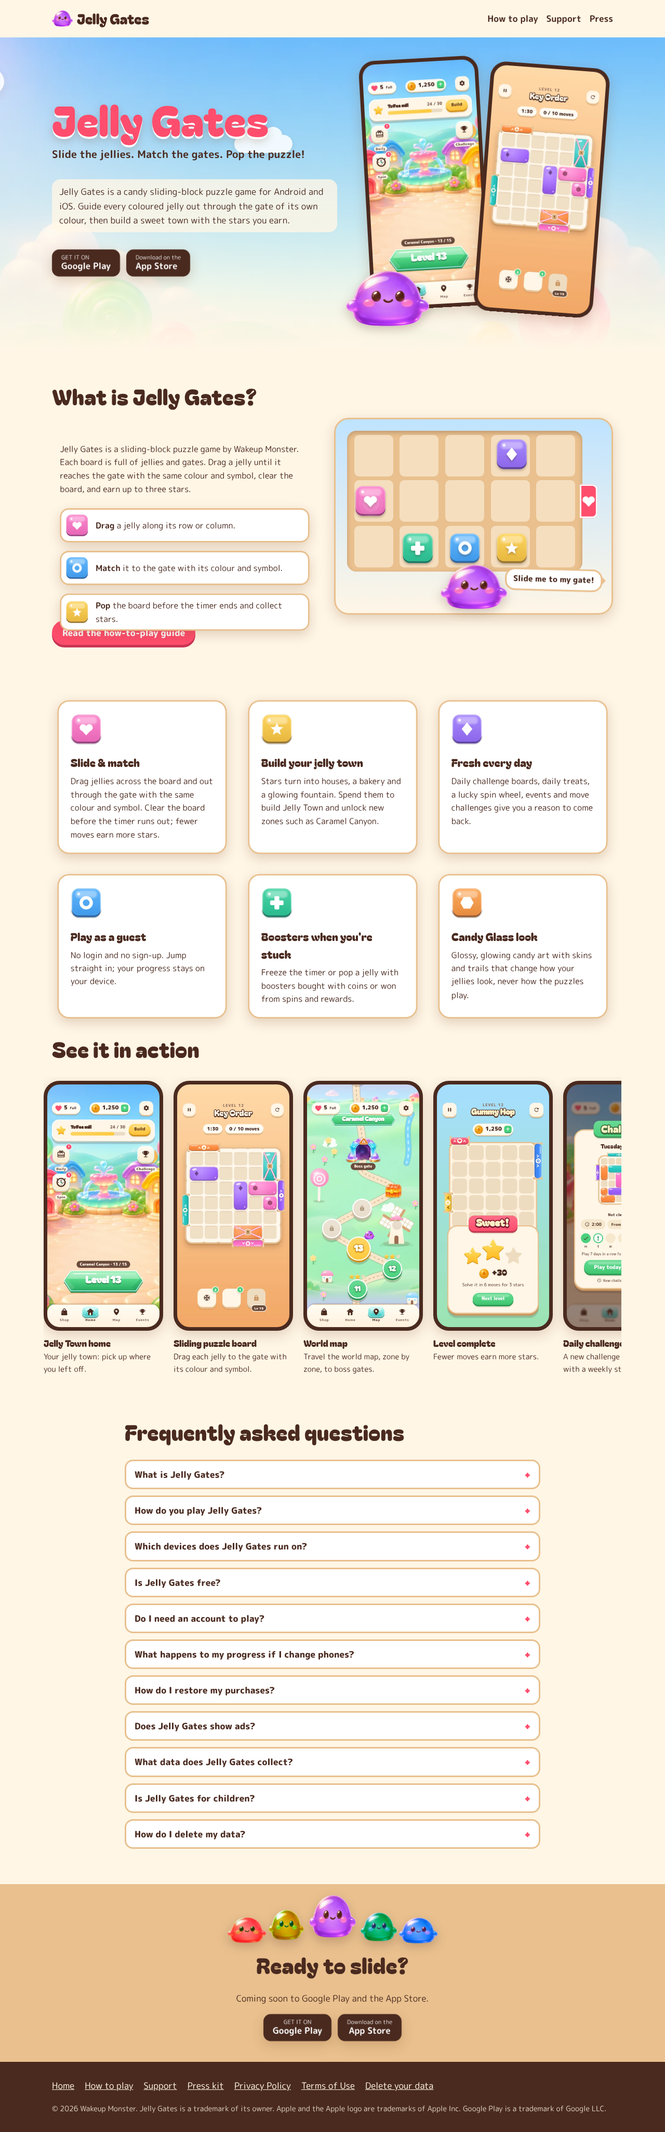
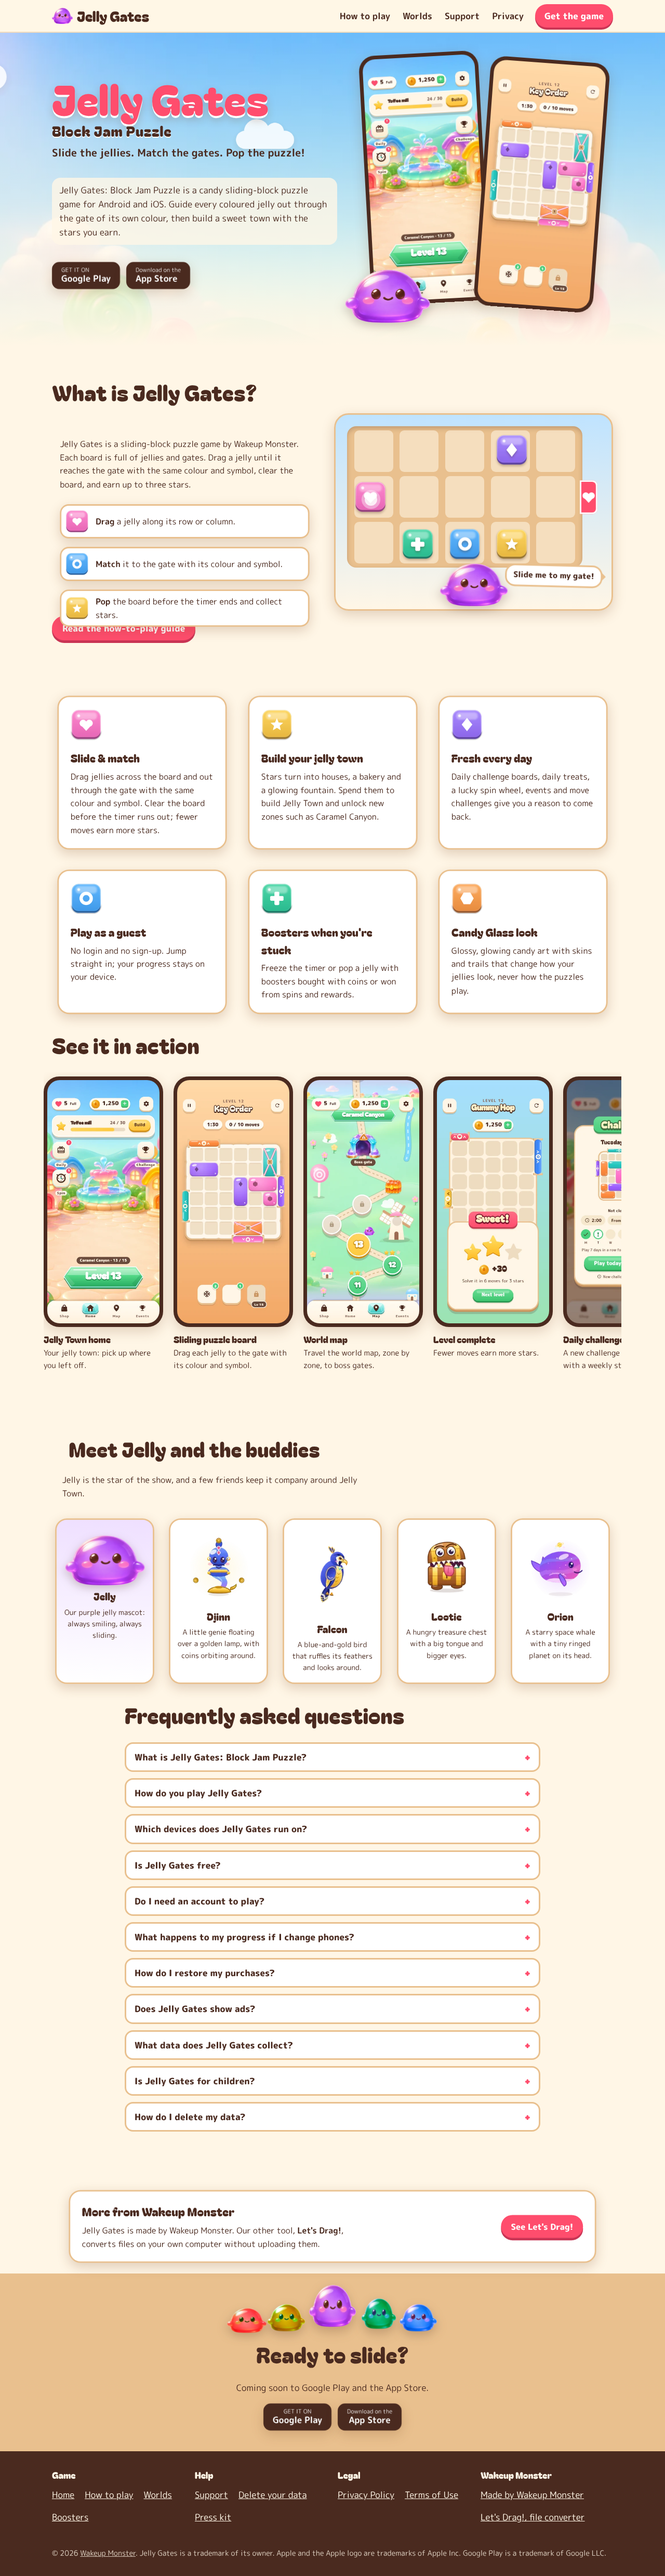
Add sticky header, buddies, worlds and boosters pages, llms-full, website privacy, Let's Drag link
Claude-Session: https://claude.ai/code/session_01EV6BAb5FUZiPhLiUpAzwuP

diff --git a/app/globals.css b/app/globals.css
@@ -182,3 +182,52 @@ summary::-webkit-details-marker{display:none}
 *{transition:none!important}}
 .family{max-width:100%;padding:0 8px}
 .family .mascot{max-width:calc((100% - 24px) / 5);min-width:0}
+
+/* ===== sticky header + menu ===== */
+.site-bar{position:sticky;top:0;z-index:30;background:rgba(255,246,230,.92);backdrop-filter:blur(8px);border-bottom:2px solid rgba(233,192,142,.5)}
+.bar{display:flex;align-items:center;justify-content:space-between;gap:12px;padding:8px 0;position:relative}
+.menu-toggle{position:absolute;opacity:0;pointer-events:none}
+.menu-btn{display:none;width:44px;height:44px;border-radius:14px;background:#fff;border:3px solid var(--caramel);cursor:pointer;flex-direction:column;justify-content:center;gap:4px;align-items:center;transition:transform .3s var(--spring)}
+.menu-btn span{display:block;width:20px;height:3px;border-radius:3px;background:var(--cocoa);transition:transform .3s var(--spring),opacity .2s}
+.menu-btn:active{transform:scale(.9)}
+.menu-toggle:focus-visible+.menu-btn{outline:3px solid var(--blueberry);outline-offset:2px}
+.menu-toggle:checked+.menu-btn span:nth-child(1){transform:translateY(7px) rotate(45deg)}
+.menu-toggle:checked+.menu-btn span:nth-child(2){opacity:0}
+.menu-toggle:checked+.menu-btn span:nth-child(3){transform:translateY(-7px) rotate(-45deg)}
+nav.top{display:flex;align-items:center;gap:4px}
+nav.top a{margin-left:0;padding:8px 10px}
+nav.top a.nav-cta{background:var(--cherry);color:#fff;border-radius:99px;padding:9px 18px;margin-left:8px;box-shadow:0 4px 0 #c93555;font-weight:800}
+nav.top a.nav-cta:hover{transform:translateY(-3px) scale(1.07) rotate(-2deg)}
+nav.top a.nav-cta:active{transform:translateY(3px) scale(.95);box-shadow:0 1px 0 #c93555}
+@media(max-width:760px){
+.menu-btn{display:flex}
+nav.top{display:none;position:absolute;left:0;right:0;top:100%;flex-direction:column;align-items:stretch;background:var(--cream);border:3px solid var(--caramel);border-radius:20px;padding:10px;box-shadow:var(--shadow);margin-top:6px}
+nav.top a{text-align:center;padding:12px}
+nav.top a.nav-cta{margin:6px 0 0;text-align:center}
+.menu-toggle:checked~nav.top{display:flex;animation:pop .35s var(--spring)}
+}
+#download,#main{scroll-margin-top:72px}
+/* buddies */
+.buddies{display:grid;grid-template-columns:repeat(2,1fr);gap:16px}
+.buddy{background:#fff;border:3px solid var(--caramel);border-radius:24px;padding:18px 14px;text-align:center;box-shadow:var(--shadow);transition:transform .4s var(--spring)}
+.buddy:hover{transform:translateY(-8px) rotate(-1deg)}
+.buddy img{width:min(150px,100%);height:auto;margin:0 auto}
+.buddy h3{font-size:1.3rem;margin:6px 0 4px}
+.buddy p{margin:0;font-size:.92rem}
+.buddy-main{grid-column:1/-1;background:linear-gradient(#efe0ff,#fff)}
+.buddy-main .mascot{display:block;margin:0 auto}
+/* sister + boosters + footer */
+.sister{display:flex;flex-wrap:wrap;align-items:center;justify-content:space-between;gap:16px;background:#fff;border:3px solid var(--caramel);border-radius:24px;padding:22px 24px;box-shadow:var(--shadow)}
+.sister h2{font-size:1.5rem;margin:0 0 6px}.sister p{margin:0;max-width:52ch}
+.boost-list{display:grid;gap:16px;margin:20px 0}
+.boost-list .card{display:flex;gap:18px;align-items:center}
+.boost-list .card h2{margin:0 0 4px;font-size:1.5rem}
+.boost-list .card p{margin:0 0 4px}
+.boost-list img{flex:none;width:96px;height:96px}
+.foot-cols{display:grid;grid-template-columns:repeat(2,1fr);gap:20px;margin-bottom:20px}
+.foot-cols b{font-family:var(--font-title);font-weight:400;font-size:1.1rem;display:block;margin-bottom:6px}
+.foot-cols ul{display:block;margin:0}.foot-cols li{margin:4px 0}
+@media(min-width:800px){.buddies{grid-template-columns:repeat(5,1fr)}.buddy-main{grid-column:auto}.foot-cols{grid-template-columns:repeat(4,1fr)}}
+@media(prefers-reduced-motion:reduce){.menu-toggle:checked~nav.top{animation:none}}
+.facts dd{overflow-wrap:anywhere}
+@media(max-width:560px){.facts{grid-template-columns:1fr}.facts dd{margin-bottom:8px}}

diff --git a/app/privacy/page.tsx b/app/privacy/page.tsx
@@ -36,15 +36,17 @@ export default function Page() {
 <p>To confirm that a purchase is genuine and to deliver it, the Game sends the store purchase token and product id to our backend running on Google Firebase Cloud Functions. This request contains no name, email or other personal details. We keep these verification records for as long as needed to prevent fraud, handle refunds and meet legal obligations. Firebase, as our infrastructure provider, may process technical data such as IP address in server logs.</p>
 <h2>6. Analytics</h2>
 <p>We do not include a separate analytics SDK. Only the data collected by AdMob and Firebase as described above is processed.</p>
-<h2>7. Children</h2>
+<h2>7. This website</h2>
+<p>This website does not use cookies, advertising trackers or analytics at present. {/* STATIC: if website analytics are added later, describe them here (cookieless, respecting Do Not Track) */}Our hosting provider may keep standard server logs (IP address, browser, pages requested) for security and operation. If you email us, we use your message only to reply.</p>
+<h2>8. Children</h2>
 <p>The Game is not directed at children under 13, and we do not knowingly collect personal information from them. If you believe a child has provided data, contact us and we will help. {/* STATIC: OWNER DECISION TO CONFIRM — age policy (under 13 / designed-for-families) must match the Play Console and App Store age ratings and AdMob child-directed settings */} <strong>[Owner decision to confirm: age statement.]</strong></p>
-<h2>8. Your rights (GDPR / UK GDPR / CCPA)</h2>
+<h2>9. Your rights (GDPR / UK GDPR / CCPA)</h2>
 <p>Depending on where you live you may have the right to access, correct, delete or port your data, to object to or restrict processing, to withdraw consent, and to lodge a complaint with your supervisory authority. California residents may also request to know, delete, and opt out of the "sale" or "sharing" of personal information; we do not sell personal information for money, and ad personalisation is controlled by the consent and device settings above. Because we hold almost no data about you, most requests are answered by explaining that data is on your device. To exercise rights, e-mail <ContactEmail />.{/* STATIC: placeholder contact email; owner must provide the real address */} We will respond within the period required by law (generally 30 days).</p>
-<h2>9. International transfers and security</h2>
+<h2>10. International transfers and security</h2>
 <p>Google and Apple may process data in countries outside your own under their own safeguards. We use reasonable measures to protect our backend, but no system is perfectly secure.</p>
-<h2>10. Changes</h2>
+<h2>11. Changes</h2>
 <p>We may update this policy; the effective date above will change and, for material changes, we will notify you in the Game or on this page.</p>
-<h2>11. Contact</h2>
+<h2>12. Contact</h2>
 <p><ContactEmail />{/* STATIC: placeholder contact email; owner must provide the real address */}</p>
 
     </LegalPage>

diff --git a/lib/game.ts b/lib/game.ts
@@ -1,0 +1,24 @@
+// Facts below come from the game repo (branch feature/shop-events-redesign): Progression.zoneNames,
+// assets/levels/levels.json + bosses.json, and the Booster enum. Re-check before launch (STATIC-NOTES.md).
+export const ZONES = [
+  { name: "Gummy Meadows", tagline: "Soft hills where every jelly learns to slide", tier: "Easy", boss: "Gummy Guardian", levels: ["First Slide", "Corner Shop", "Side Step", "Make Room", "Crossroads"] },
+  { name: "Frostjelly Falls", tagline: "Slippery ice jelly and frozen cascades", tier: "Easy–Medium", boss: "Frostjaw", levels: ["Slippery", "The Pillars", "Rush Hour", "Ice Rink", "Glide Path"] },
+  { name: "Caramel Canyon", tagline: "Chained jelly on sticky caramel bridges", tier: "Medium", boss: "Caramel Warden", levels: ["Chained Up", "Key Order", "Tangle", "Frozen Chain", "Chain Reaction"] },
+  { name: "Twin-Core Lagoon", tagline: "Double jelly floating in a bubbly lagoon", tier: "Medium–Hard", boss: "Twin-Core Colossus", levels: ["Jelly Core", "Two Coats", "Russian Doll", "Cold Core", "Thaw"] },
+  { name: "Prism Peaks", tagline: "Shifting gates among rainbow crystals", tier: "Hard", boss: "Prism Sentinel", levels: ["Traffic Lights", "Rotating Door", "Lock Step", "Black Ice", "Kaleidoscope"] },
+  { name: "Royal Jelly Citadel", tagline: "Every trick at once in the jelly castle", tier: "Advanced", boss: "Royal Jelly Keeper", levels: ["Clockwork", "Deep Freeze", "Labyrinth", "Avalanche", "Jelly Master"] },
+] as const;
+
+export const BOOSTERS = [
+  { name: "Freeze", unlock: 5, text: "Stops the timer for 10 seconds. Tap it whenever the clock gets scary.", img: "freeze" },
+  { name: "Pop", unlock: 10, text: "Pops one jelly off the board. Tap Pop, then tap any jelly.", img: "pop" },
+  { name: "Key", unlock: 15, text: "Opens any gate for one jelly, whatever its colour.", img: null },
+] as const;
+
+export const BUDDIES = [
+  // STATIC: buddy names are the art folder names in the game repo; confirm final names
+  { file: "djinn", name: "Djinn", desc: "A little genie floating over a golden lamp, with coins orbiting around." },
+  { file: "falcon", name: "Falcon", desc: "A blue-and-gold bird that ruffles its feathers and looks around." },
+  { file: "lootie", name: "Lootie", desc: "A hungry treasure chest with a big tongue and bigger eyes." },
+  { file: "orion", name: "Orion", desc: "A starry space whale with a tiny ringed planet on its head." },
+] as const;

diff --git a/app/boosters/page.tsx b/app/boosters/page.tsx
@@ -1,0 +1,37 @@
+import type { Metadata } from "next";
+import Image from "next/image";
+import Link from "next/link";
+import { JsonLd } from "@/components/JsonLd";
+import { TileIcon } from "@/components/TileIcon";
+import { abs, breadcrumbLd, pageMetadata } from "@/lib/seo";
+import { BOOSTERS } from "@/lib/game";
+import { BASE_PATH } from "@/lib/site";
+
+export const metadata: Metadata = pageMetadata({
+  title: "Boosters: Freeze, Pop and Key",
+  description: "What the Freeze, Pop and Key boosters do in Jelly Gates: Block Jam Puzzle, and the level where each one unlocks.",
+  path: "/boosters/",
+});
+
+export default function Boosters() {
+  return (
+    <main className="page" id="main"><div className="wrap">
+      <h1>Boosters</h1>
+      <p><strong>In short:</strong> Jelly Gates has three boosters: Freeze stops the timer, Pop removes a jelly and Key opens any gate. They unlock as you play, from level 5.</p>
+      <div className="boost-list">
+        {BOOSTERS.map((b) => (
+          <div className="card" key={b.name}>
+            {b.img ? <Image src={`${BASE_PATH}/img/boosters/${b.img}.webp`} alt="" width={96} height={96} /> : <TileIcon tile="orange" symbol="hexagon" size={96} />}
+            <div><h2>{b.name}</h2><p>{b.text}</p><p><small>Unlocks at level {b.unlock}.</small></p></div>
+          </div>
+        ))}
+      </div>
+      <p>Coins buy boosters and refills, and you can win more from the daily treats and the lucky spin. See <Link href="/how-to-play/">how to play</Link> and the <Link href="/worlds/">worlds</Link>.</p>
+      <JsonLd data={breadcrumbLd([{ name: "Home", path: "/" }, { name: "Boosters", path: "/boosters/" }])} />
+      <JsonLd data={{
+        "@context": "https://schema.org", "@type": "ItemList", name: "Jelly Gates boosters", url: abs("/boosters/"),
+        itemListElement: BOOSTERS.map((b, i) => ({ "@type": "ListItem", position: i + 1, name: b.name, description: b.text })),
+      }} />
+    </div></main>
+  );
+}

diff --git a/app/worlds/page.tsx b/app/worlds/page.tsx
@@ -1,0 +1,37 @@
+import type { Metadata } from "next";
+import Link from "next/link";
+import { JsonLd } from "@/components/JsonLd";
+import { Phone } from "@/components/Phone";
+import { abs, breadcrumbLd, pageMetadata } from "@/lib/seo";
+import { ZONES } from "@/lib/game";
+import { SCREENS } from "@/lib/site";
+
+export const metadata: Metadata = pageMetadata({
+  title: "Worlds and levels: 6 zones, 6 boss gates",
+  description: "Explore the six zones of Jelly Gates: Block Jam Puzzle, from Gummy Meadows to the Royal Jelly Citadel, with their levels, difficulty and boss gates.",
+  path: "/worlds/",
+});
+
+export default function Worlds() {
+  return (
+    <main className="page" id="main"><div className="wrap">
+      <h1>Worlds and levels</h1>
+      <p><strong>In short:</strong> Jelly Gates has 6 zones. Each zone has 5 levels and ends with a Boss Gate. Beat the boss to open the next zone, and the puzzles get trickier as you go.</p>
+      <div style={{ margin: "24px 0" }}><Phone file="map" alt={SCREENS[2].alt} /></div>
+      {ZONES.map((z, i) => (
+        <section key={z.name}>
+          <h2>{i + 1}. {z.name}</h2>
+          <p><em>{z.tagline}.</em> Difficulty: {z.tier}.</p>
+          <p><strong>Levels:</strong> {z.levels.join(", ")}.</p>
+          <p><strong>Boss Gate:</strong> {z.boss}.</p>
+        </section>
+      ))}
+      <p>Stuck on a level? Check the <Link href="/boosters/">boosters</Link> or the <Link href="/how-to-play/">how-to-play guide</Link>.</p>
+      <JsonLd data={{
+        "@context": "https://schema.org", "@type": "ItemList", name: "Jelly Gates zones", url: abs("/worlds/"),
+        itemListElement: ZONES.map((z, i) => ({ "@type": "ListItem", position: i + 1, name: z.name, description: z.tagline })),
+      }} />
+      <JsonLd data={breadcrumbLd([{ name: "Home", path: "/" }, { name: "Worlds", path: "/worlds/" }])} />
+    </div></main>
+  );
+}

diff --git a/components/Footer.tsx b/components/Footer.tsx
@@ -3,15 +3,22 @@ import Link from "next/link";
 export function Footer() {
   return (
     <footer className="site"><div className="wrap">
-      <ul>
-        <li><Link href="/">Home</Link></li>
-        <li><Link href="/how-to-play/">How to play</Link></li>
-        <li><Link href="/support/">Support</Link></li>
-        <li><Link href="/press/">Press kit</Link></li>
-        <li><Link href="/privacy/">Privacy Policy</Link></li>
-        <li><Link href="/terms/">Terms of Use</Link></li>
-        <li><Link href="/delete-data/">Delete your data</Link></li>
-      </ul>
+      <div className="foot-cols">
+        <div><b>Game</b><ul>
+          <li><Link href="/">Home</Link></li><li><Link href="/how-to-play/">How to play</Link></li>
+          <li><Link href="/worlds/">Worlds</Link></li><li><Link href="/boosters/">Boosters</Link></li>
+        </ul></div>
+        <div><b>Help</b><ul>
+          <li><Link href="/support/">Support</Link></li><li><Link href="/delete-data/">Delete your data</Link></li><li><Link href="/press/">Press kit</Link></li>
+        </ul></div>
+        <div><b>Legal</b><ul>
+          <li><Link href="/privacy/">Privacy Policy</Link></li><li><Link href="/terms/">Terms of Use</Link></li>
+        </ul></div>
+        <div><b>Wakeup Monster</b><ul>
+          <li><a href="https://wakeupmonster.com/" rel="noopener">Made by Wakeup Monster</a></li>
+          <li><a href="https://letsdrag.wakeupmonster.com/" rel="noopener">Let&apos;s Drag!, file converter</a></li>
+        </ul></div>
+      </div>
       {/* STATIC: legal company name and registered address not known; footer uses "Wakeup Monster" */}
       <small>© 2026 <a href="https://wakeupmonster.com/" rel="noopener">Wakeup Monster</a>. Jelly Gates is a trademark of its owner. Apple and the Apple logo are trademarks of Apple Inc. Google Play is a trademark of Google LLC.</small>
     </div></footer>

diff --git a/components/Header.tsx b/components/Header.tsx
@@ -2,15 +2,22 @@ import Image from "next/image";
 import Link from "next/link";
 import { BASE_PATH } from "@/lib/site";
 
+// Pure CSS menu (checkbox) so it works without JavaScript.
 export function Header() {
   return (
-    <header className="site wrap">
-      <Link className="logo" href="/"><Image src={`${BASE_PATH}/img/mascot/jelly-sm.webp`} alt="" width={96} height={74} className="logo-jelly" />Jelly Gates</Link>
-      <nav className="top" aria-label="Main">
-        <Link href="/how-to-play/">How to play</Link>
-        <Link href="/support/">Support</Link>
-        <Link href="/privacy/">Privacy</Link>
-      </nav>
+    <header className="site-bar">
+      <div className="wrap bar">
+        <Link className="logo" href="/"><Image src={`${BASE_PATH}/img/mascot/jelly-sm.webp`} alt="" width={96} height={74} className="logo-jelly" />Jelly Gates</Link>
+        <input type="checkbox" id="menu-toggle" className="menu-toggle" aria-label="Toggle menu" />
+        <label htmlFor="menu-toggle" className="menu-btn" aria-hidden="true"><span /><span /><span /></label>
+        <nav className="top" aria-label="Main">
+          <Link href="/how-to-play/">How to play</Link>
+          <Link href="/worlds/">Worlds</Link>
+          <Link href="/support/">Support</Link>
+          <Link href="/privacy/">Privacy</Link>
+          <Link className="nav-cta" href="/#download">Get the game</Link>
+        </nav>
+      </div>
     </header>
   );
 }

diff --git a/app/page.tsx b/app/page.tsx
@@ -5,6 +5,8 @@ import { Mascot } from "@/components/Mascot";
 import { TileIcon } from "@/components/TileIcon";
 import { Phone } from "@/components/Phone";
 import { StoreBadges } from "@/components/StoreBadges";
+import { Buddies } from "@/components/Buddies";
+import { SisterApp } from "@/components/SisterApp";
 import { Faq } from "@/components/Faq";
 import { JsonLd } from "@/components/JsonLd";
 import { appId, abs, orgId, organizationLd, pageMetadata } from "@/lib/seo";
@@ -100,12 +102,16 @@ export default function Home() {
         </div>
       </div></section>
 
+      <Buddies />
+
       <section className="block" style={{ paddingTop: 0 }}><div className="wrap" style={{ maxWidth: 800 }}>
         <h2>Frequently asked questions</h2>
         <Faq />
       </div></section>
 
-      <section className="band"><div className="wrap">
+      <SisterApp />
+
+      <section className="band" id="download"><div className="wrap">
         <div className="family" aria-hidden="true">
           <Mascot size={70} tint="cherry" delay={0} /><Mascot size={70} tint="lemon" delay={0.25} /><Mascot size={96} delay={0.5} />
           <Mascot size={70} tint="lime" delay={0.75} /><Mascot size={70} tint="blueberry" delay={1} />

diff --git a/app/llms-full.txt/route.ts b/app/llms-full.txt/route.ts
@@ -1,0 +1,39 @@
+import { abs } from "@/lib/seo";
+import { FAQ, SITE } from "@/lib/site";
+import { BOOSTERS, BUDDIES, ZONES } from "@/lib/game";
+
+export const dynamic = "force-static";
+
+export function GET() {
+  const body = `# ${SITE.fullName}: full reference
+
+${SITE.description}
+
+Developer: ${SITE.developer} (${SITE.companyUrl}). Support: ${SITE.email}. Website: ${abs("/")}
+
+## Frequently asked questions
+${FAQ.map((f) => `### ${f.q}\n${f.a}`).join("\n\n")}
+
+## Worlds
+Jelly Gates has ${ZONES.length} zones of 5 levels, each ending in a Boss Gate.
+${ZONES.map((z, i) => `${i + 1}. ${z.name} (${z.tier}): ${z.tagline}. Levels: ${z.levels.join(", ")}. Boss: ${z.boss}.`).join("\n")}
+
+## Boosters
+${BOOSTERS.map((b) => `- ${b.name} (unlocks at level ${b.unlock}): ${b.text}`).join("\n")}
+
+## Characters
+Jelly is the purple mascot. Buddies: ${BUDDIES.map((b) => b.name).join(", ")}.
+
+## Pages
+- ${abs("/")}
+- ${abs("/how-to-play/")}
+- ${abs("/worlds/")}
+- ${abs("/boosters/")}
+- ${abs("/support/")}
+- ${abs("/press/")}
+- ${abs("/privacy/")}
+- ${abs("/terms/")}
+- ${abs("/delete-data/")}
+`;
+  return new Response(body, { headers: { "Content-Type": "text/plain; charset=utf-8" } });
+}

diff --git a/components/Buddies.tsx b/components/Buddies.tsx
@@ -1,0 +1,22 @@
+import Image from "next/image";
+import { Mascot } from "./Mascot";
+import { BASE_PATH } from "@/lib/site";
+import { BUDDIES } from "@/lib/game";
+
+export function Buddies() {
+  return (
+    <section className="block" style={{ paddingTop: 0 }}><div className="wrap">
+      <h2 className="reveal">Meet Jelly and the buddies</h2>
+      <p className="sub reveal">Jelly is the star of the show, and a few friends keep it company around Jelly Town.</p>
+      <div className="buddies">
+        <div className="buddy buddy-main reveal"><Mascot size={150} alt="Jelly, the purple jelly mascot" /><h3>Jelly</h3><p>Our purple jelly mascot: always smiling, always sliding.</p></div>
+        {BUDDIES.map((b) => (
+          <div className="buddy reveal" key={b.file}>
+            <Image src={`${BASE_PATH}/img/buddies/${b.file}.webp`} alt={`${b.name}: ${b.desc}`} width={200} height={200} unoptimized />
+            <h3>{b.name}</h3><p>{b.desc}</p>
+          </div>
+        ))}
+      </div>
+    </div></section>
+  );
+}

diff --git a/app/sitemap.ts b/app/sitemap.ts
@@ -5,6 +5,6 @@ import { SITE } from "@/lib/site";
 export const dynamic = "force-static";
 
 export default function sitemap(): MetadataRoute.Sitemap {
-  const pages: [string, number][] = [["/", 1], ["/how-to-play/", 0.8], ["/support/", 0.6], ["/press/", 0.5], ["/privacy/", 0.3], ["/terms/", 0.3], ["/delete-data/", 0.3]];
+  const pages: [string, number][] = [["/", 1], ["/how-to-play/", 0.8], ["/worlds/", 0.7], ["/boosters/", 0.7], ["/support/", 0.6], ["/press/", 0.5], ["/privacy/", 0.3], ["/terms/", 0.3], ["/delete-data/", 0.3]];
   return pages.map(([p, priority]) => ({ url: abs(p), lastModified: SITE.lastUpdated, changeFrequency: "monthly", priority }));
 }

diff --git a/app/how-to-play/page.tsx b/app/how-to-play/page.tsx
@@ -35,6 +35,7 @@ export default function HowToPlay() {
       <ul>
         <li>Look at which gates are open before you move anything.</li>
         <li>If you are stuck, a booster can freeze the timer or pop a jelly.</li>
+        <li>Boosters are explained on the <Link href="/boosters/">boosters page</Link>, and the zones on the <Link href="/worlds/">worlds page</Link>.</li>
         <li>Come back daily for the daily challenge, daily treats and the lucky spin.</li>
       </ul>
       <p>More questions? See <Link href="/support/">Support</Link> or the <Link href="/">FAQ on the home page</Link>.</p>
